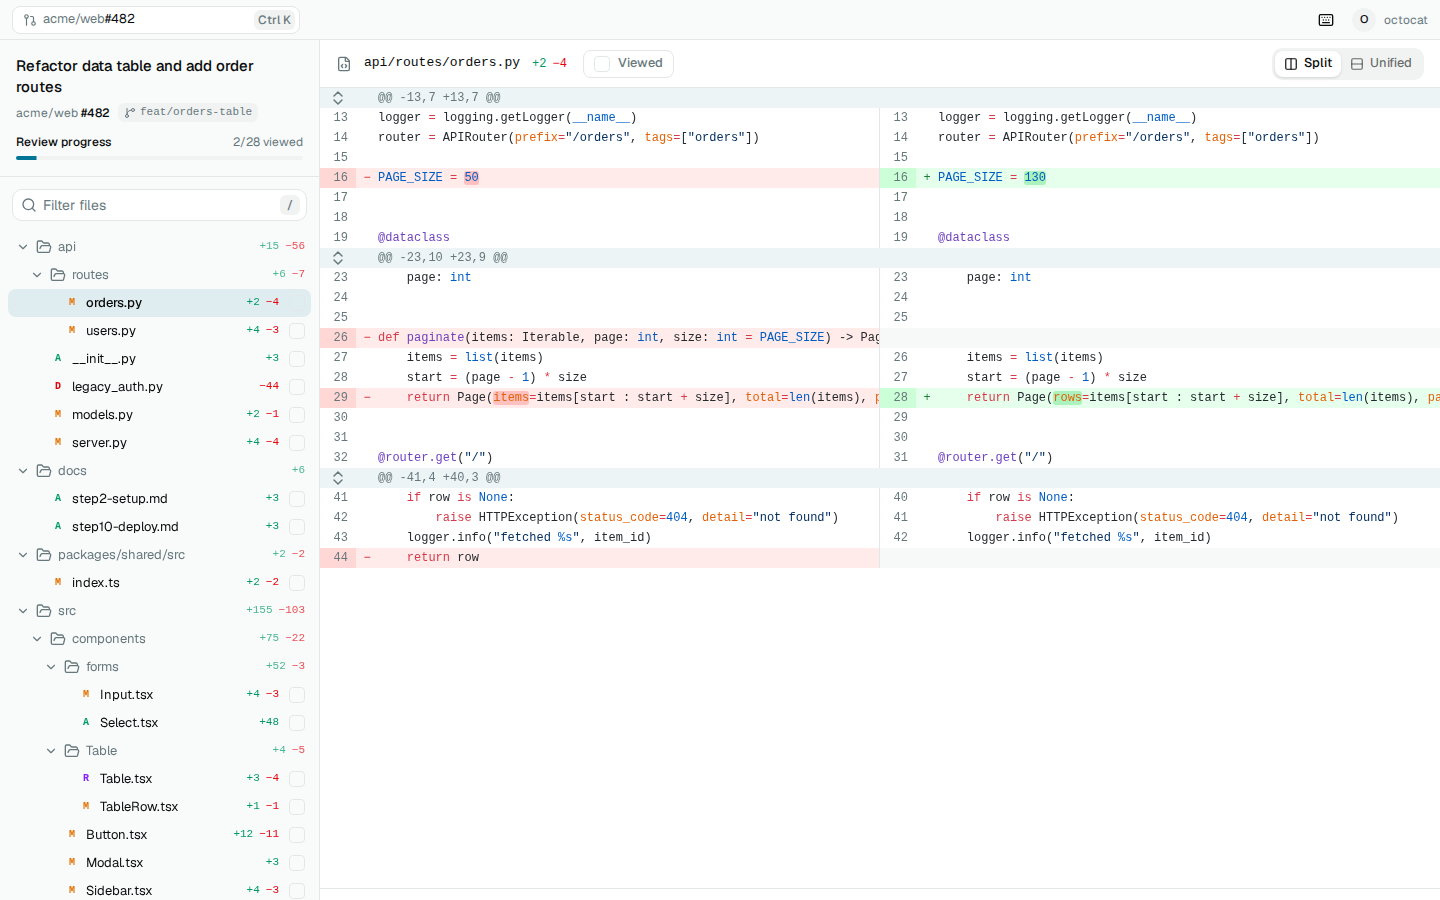
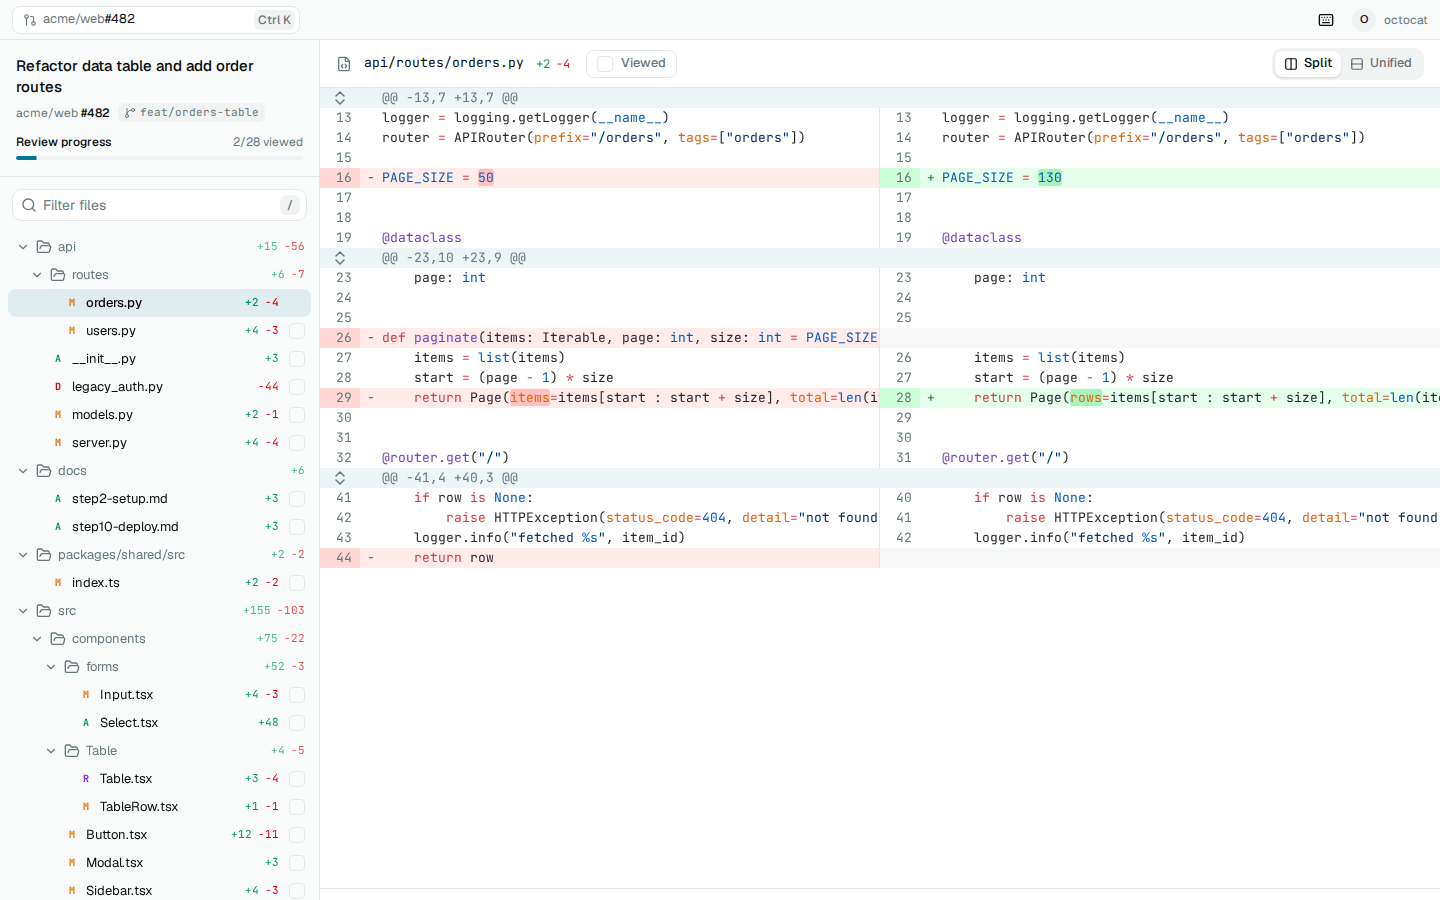
Use JetBrains Mono for code
The diff view and every monospace spot in the UI (file path, branch, line
counts, status letters) now use JetBrains Mono, the JetBrains IDE code
font, at 13px with ligatures off as in the IDEs. The diff measures its
character width again once the web font has loaded, and main.tsx starts
loading the font at boot so the first diff already renders in it.

Claude-Session: https://claude.ai/code/session_01UswAP7Ko4iuEWnWNESMjL7

diff --git a/src/styles.css b/src/styles.css
@@ -4,6 +4,8 @@
 @import "tailwindcss";
 @import "tw-animate-css";
 @import "@fontsource-variable/geist";
+@import "@fontsource-variable/jetbrains-mono";
+@import "@fontsource-variable/jetbrains-mono/wght-italic.css";
 
 /* From shadcn/tailwind.css: the variants and utility the ported components use. */
 @custom-variant data-checked {
@@ -34,7 +36,8 @@
 @theme inline {
   --font-sans: "Geist Variable", -apple-system, BlinkMacSystemFont, system-ui, sans-serif;
   --font-heading: var(--font-sans);
-  --font-mono: ui-monospace, "SF Mono", SFMono-Regular, Menlo, Consolas, "Liberation Mono", monospace;
+  /* Code font of JetBrains IDEs; the diff view uses it too (src/components/diff.css). */
+  --font-mono: "JetBrains Mono Variable", ui-monospace, "SF Mono", SFMono-Regular, Menlo, Consolas, "Liberation Mono", monospace;
   --radius-sm: calc(var(--radius) * 0.6);
   --radius-md: calc(var(--radius) * 0.8);
   --radius-lg: var(--radius);

diff --git a/src/components/DiffView.tsx b/src/components/DiffView.tsx
@@ -157,9 +157,21 @@ function DiffBody(props: DiffViewProps) {
     if (dc) setCodeWidth(dc.clientWidth);
   };
 
-  onMount(() => {
+  const measureChar = () => {
     const w = measure.getBoundingClientRect().width / 64;
     if (w > 0) setCharWidth(w);
+  };
+
+  onMount(() => {
+    measureChar();
+    // The code font is a web font: measure again once it has loaded.
+    let live = true;
+    onCleanup(() => (live = false));
+    document.fonts?.ready.then(() => {
+      if (!live) return;
+      measureChar();
+      measureCode();
+    });
     setViewHeight(scroller.clientHeight || viewHeight());
     if (typeof ResizeObserver !== "undefined") {
       const ro = new ResizeObserver(() => {

diff --git a/src/components/diff.css b/src/components/diff.css
@@ -26,9 +26,11 @@
   min-width: 0;
   background: var(--dv-bg);
   color: var(--dv-fg);
-  font-family: ui-monospace, SFMono-Regular, "SF Mono", Menlo, Consolas, "Liberation Mono", monospace;
-  font-size: 12px;
+  font-family: var(--font-mono);
+  font-size: 13px;
   line-height: 20px;
+  /* JetBrains IDEs ship with ligatures off; keep "!=" and "=>" as typed. */
+  font-variant-ligatures: none;
   tab-size: 4;
   -moz-tab-size: 4;
 }

diff --git a/src/main.tsx b/src/main.tsx
@@ -5,5 +5,7 @@ import "./styles.css";
 
 // Boot the highlight worker (Shiki core + theme) while the app starts, so the first diff doesn't pay for it.
 warmHighlighter();
+// Start fetching the code font now so the first diff renders in it.
+void document.fonts?.load('13px "JetBrains Mono Variable"').catch(() => {});
 
 render(() => <App />, document.getElementById("root")!);

diff --git a/docs/ARCHITECTURE.md b/docs/ARCHITECTURE.md
@@ -10,7 +10,7 @@ A native desktop app (macOS first, Linux later) for reviewing GitHub pull reques
 | Core | **Rust** crate `crates/core` (`fast_reviewer_core`) | GitHub API, auth, diffing, caching. No Tauri dependency so it can be unit-tested and reused (CLI, Linux). |
 | Tauri glue | `src-tauri` | Thin `#[tauri::command]` wrappers over the core. |
 | UI | **SolidJS + TypeScript + Vite** | Fine-grained reactivity, no VDOM, tiny runtime. |
-| Styling | **Tailwind CSS v4** with the shadcn/ui preset `b1YocDISu` (Nova style, Mist base, Cyan theme, Geist, Lucide icons) | shadcn/ui is React-only, so `src/components/ui/` holds Solid ports of the Nova components we use. Theme tokens live in `src/styles.css`; the diff view keeps its own stylesheet (`src/components/diff.css`) and reads the theme tokens for its chrome. |
+| Styling | **Tailwind CSS v4** with the shadcn/ui preset `b1YocDISu` (Nova style, Mist base, Cyan theme, Geist, Lucide icons); code in JetBrains Mono | shadcn/ui is React-only, so `src/components/ui/` holds Solid ports of the Nova components we use. Theme tokens live in `src/styles.css`; the diff view keeps its own stylesheet (`src/components/diff.css`) and reads the theme tokens for its chrome. |
 | Highlighting | **Shiki** (TextMate grammars, JS regex engine) running in a **Web Worker** | VS Code-quality highlighting for 200+ languages without blocking the UI thread. Languages load lazily. |
 
 ## Data flow
